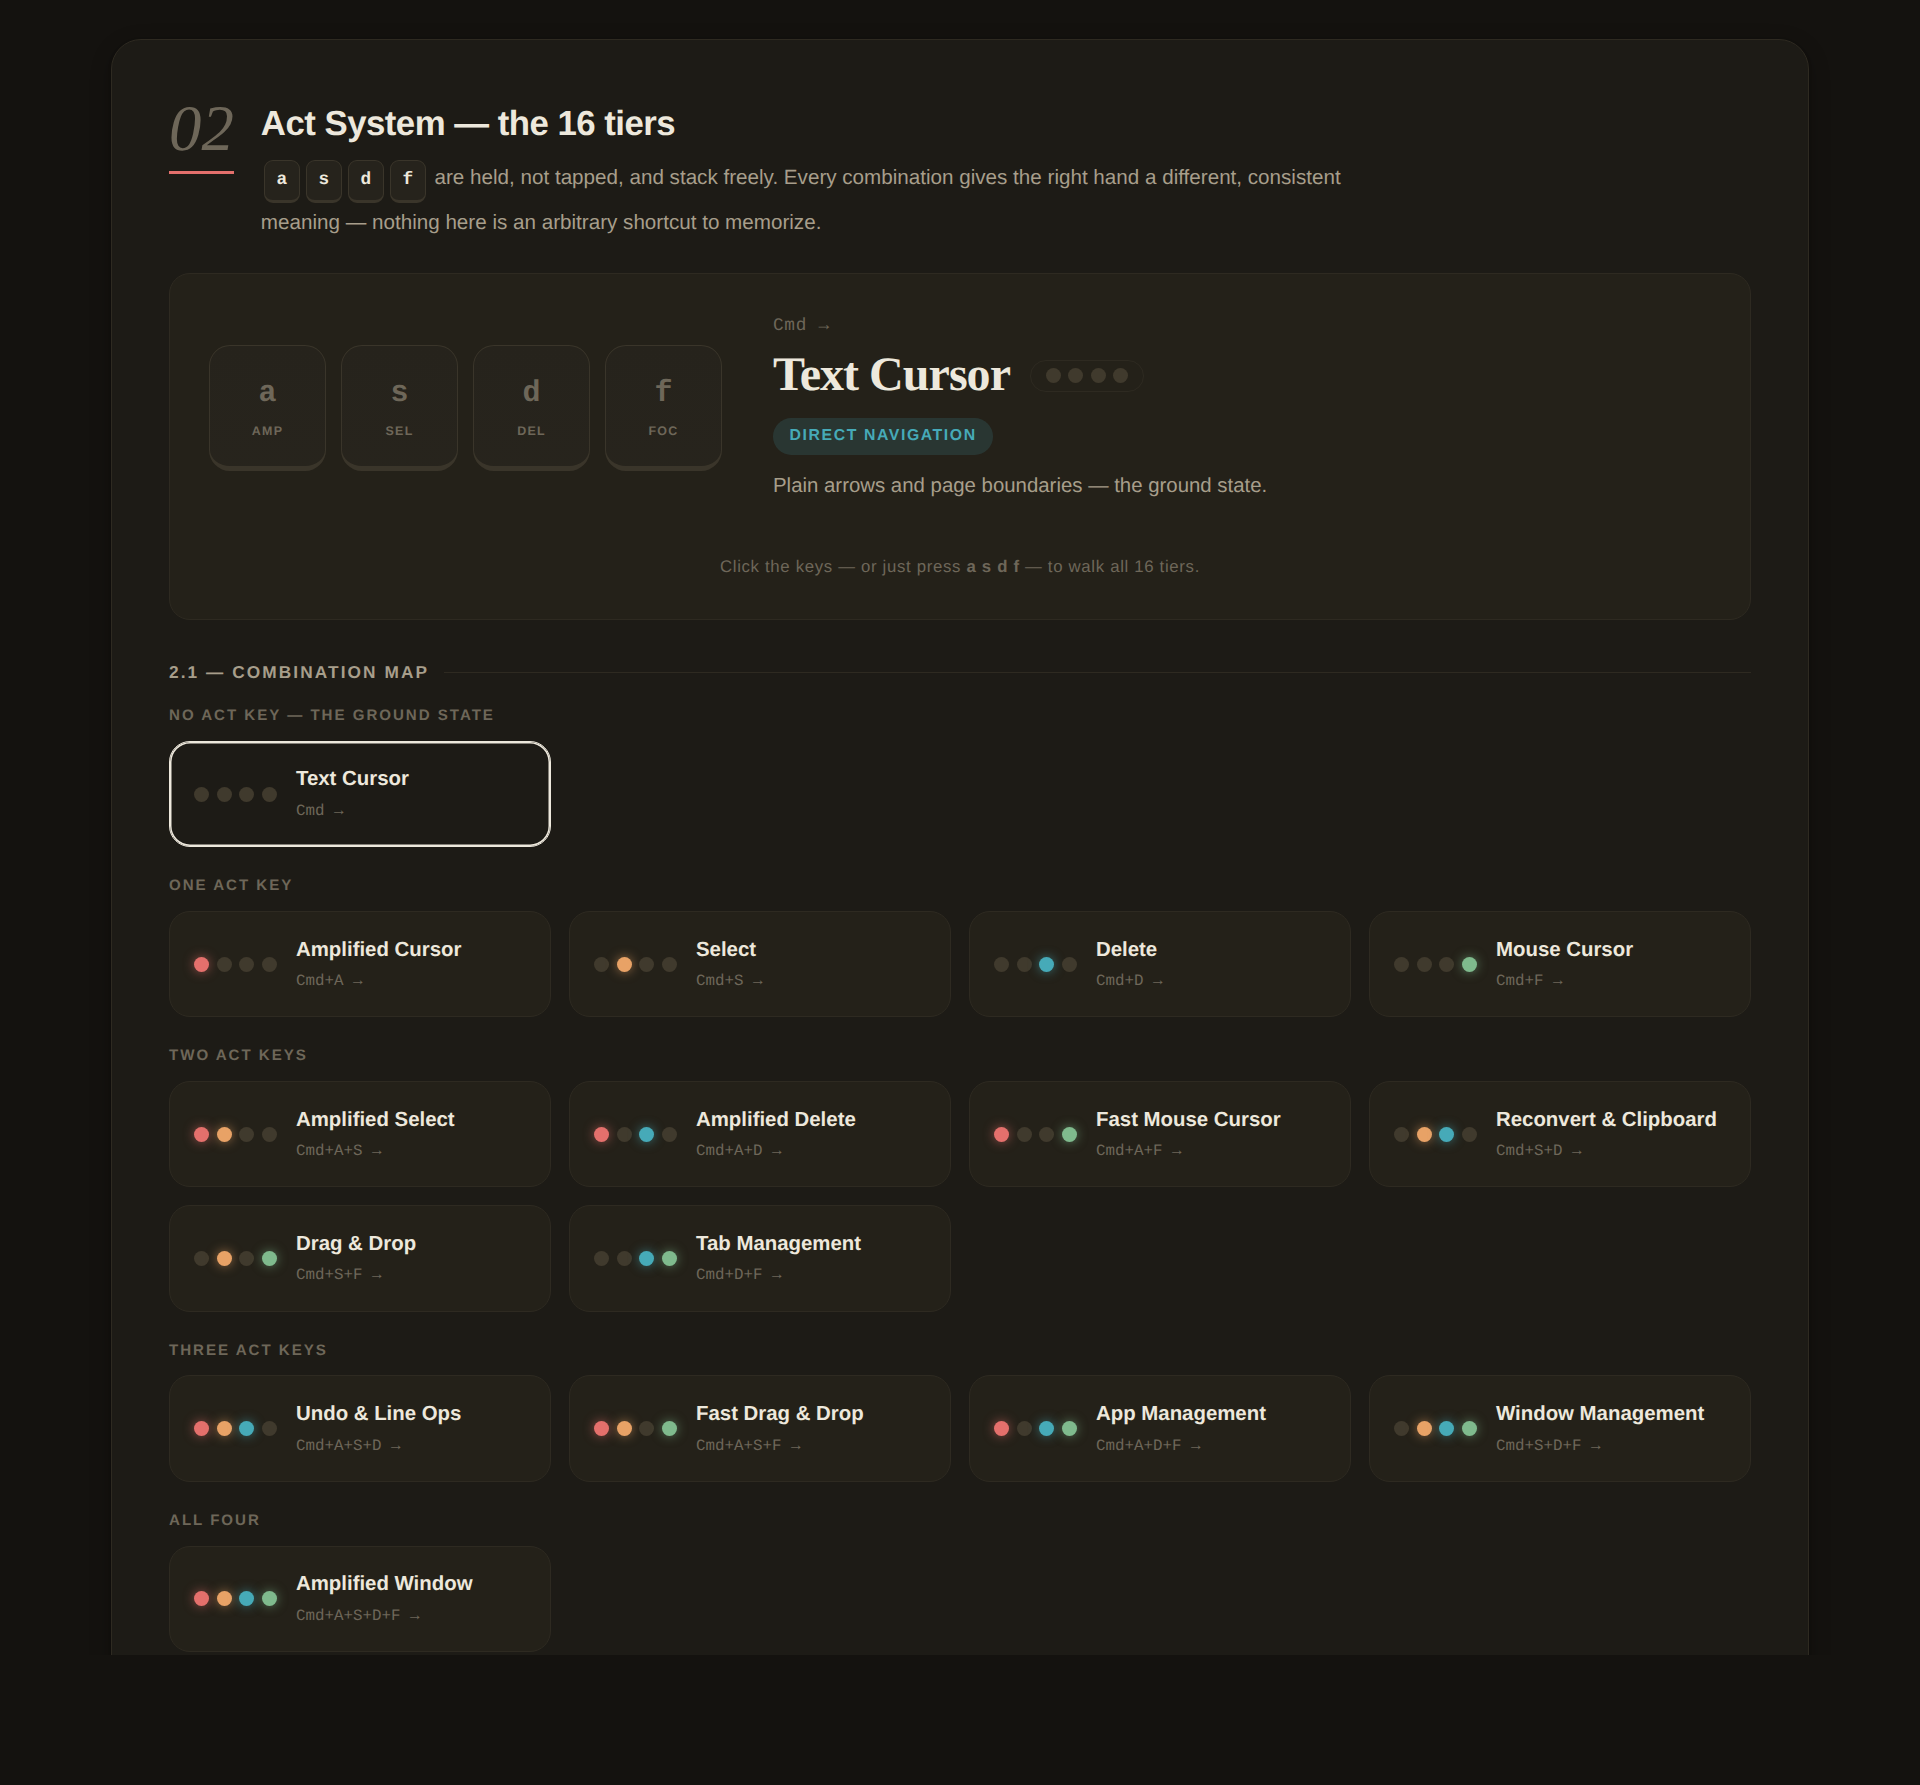
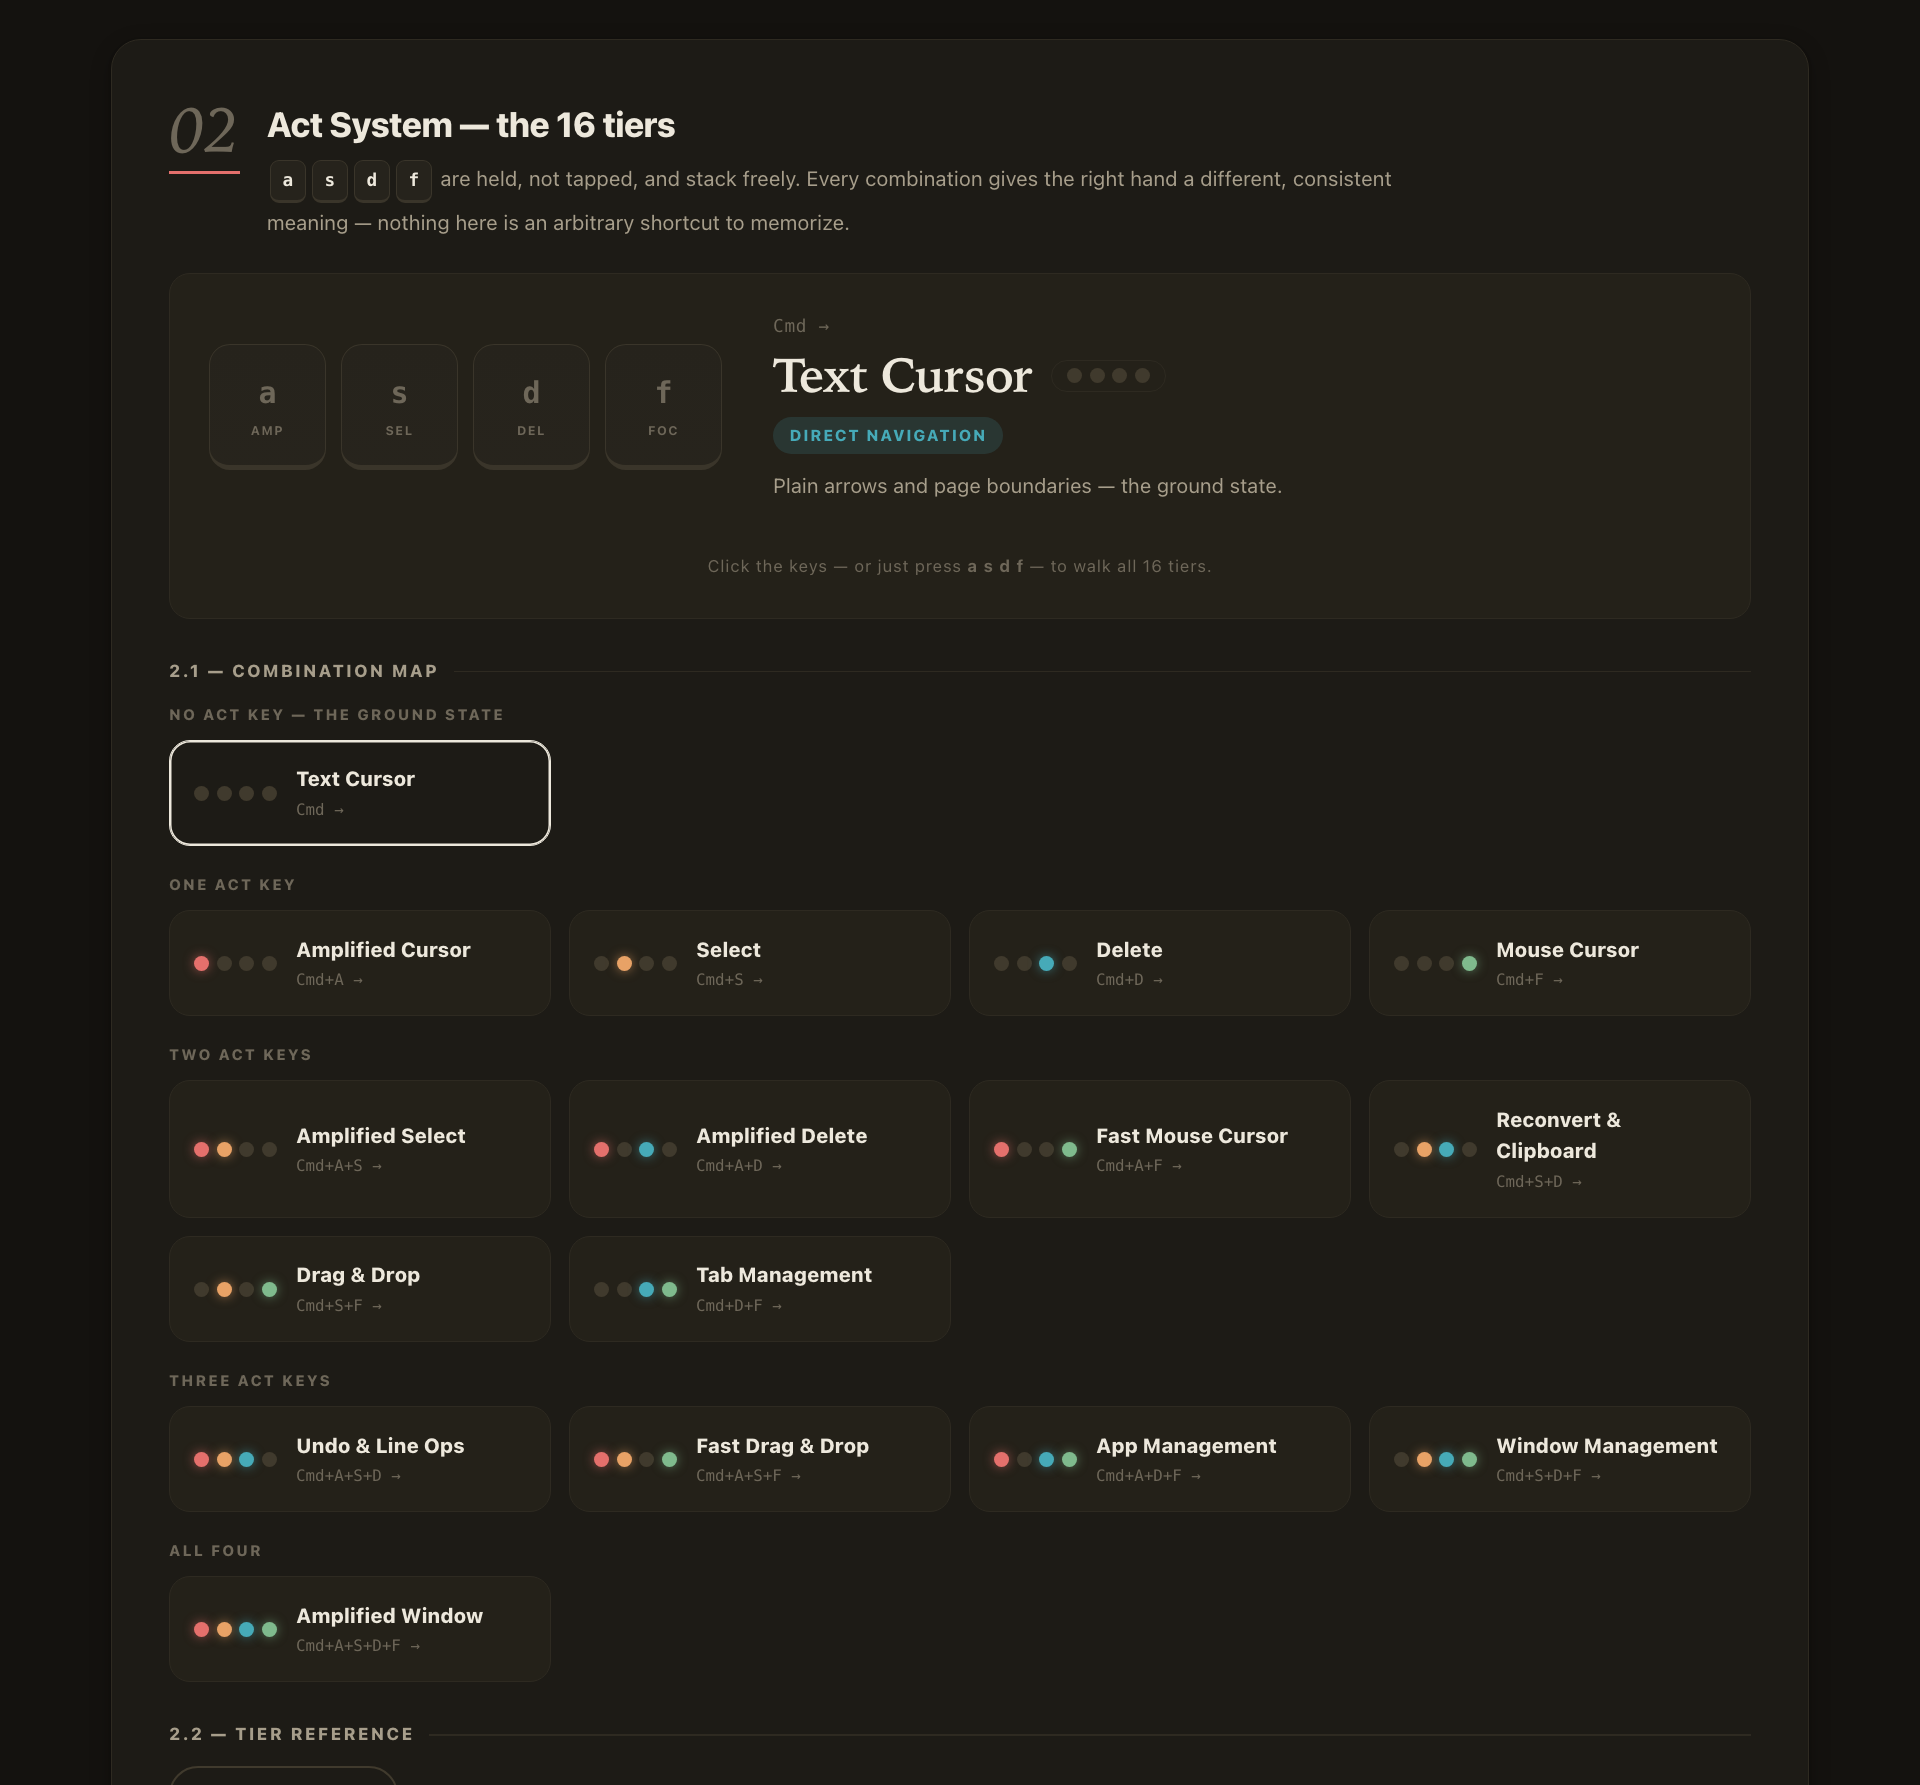
revert: put Command back on Caps Lock and Control back on fn
Restores the modifier arrangement that predates 6c8b3f4. Caps Lock's
held-output goes back to Left Command, fn goes back to Left Control, and
the explicit Left Control remap is dropped so the physical key passes
through as an ordinary Control. Caps Lock's tap-alone (Escape) and its
Asterisk-layer Maccy-trigger role are untouched.

NOTES.md records that the swap was tried and rolled back, so it is not
re-applied by mistake.

Also pin the README screenshots to the dark theme. The page's own theme
script overrides data-theme on load from localStorage, falling back to
the OS prefers-color-scheme, so rewriting the attribute was not enough
and the hero shot came out in whichever theme the capturing machine
happened to prefer. The capture now stubs that localStorage read, making
both shots dark and identical on any machine.

diff --git a/docs/index.html b/docs/index.html
@@ -717,7 +717,7 @@ body.searching .chapter-nav{ margin-top:0; }
             <span class="keycap mod k-trigger" style="--sp:9">shift</span><span class="keycap k-mapped">z</span><span class="keycap k-mapped">x</span><span class="keycap k-mapped">c</span><span class="keycap k-mapped">v</span><span class="keycap k-mapped">b</span><span class="keycap k-mapped">n</span><span class="keycap k-mapped">m</span><span class="keycap k-mapped">,</span><span class="keycap k-mapped">.</span><span class="keycap k-mapped">/</span><span class="keycap mod k-trigger" style="--sp:9">shift</span>
           </div>
           <div class="kb-row" aria-hidden="true">
-            <span class="keycap mod k-mapped">fn</span><span class="keycap mod k-mapped">ctrl</span><span class="keycap mod k-mapped">opt</span><span class="keycap mod k-trigger" style="--sp:5">⌘</span><span class="keycap mod k-mapped" style="--sp:20">space</span><span class="keycap mod k-mapped" style="--sp:5">⌘</span><span class="keycap mod">opt</span><span class="keycap mod">◄</span><span class="kb-arrows"><span class="keycap-half">▲</span><span class="keycap-half">▼</span></span><span class="keycap mod">►</span>
+            <span class="keycap mod k-mapped">fn</span><span class="keycap mod">ctrl</span><span class="keycap mod k-mapped">opt</span><span class="keycap mod k-trigger" style="--sp:5">⌘</span><span class="keycap mod k-mapped" style="--sp:20">space</span><span class="keycap mod k-mapped" style="--sp:5">⌘</span><span class="keycap mod">opt</span><span class="keycap mod">◄</span><span class="kb-arrows"><span class="keycap-half">▲</span><span class="keycap-half">▼</span></span><span class="keycap mod">►</span>
           </div>
         </div>
       </div>
@@ -856,20 +856,20 @@ body.searching .chapter-nav{ margin-top:0; }
           <tr><td><span class="key">L-⌘</span></td><td><strong>Asterisk layer</strong></td><td class="dim">Switch to English input (US Extended)</td></tr>
           <tr><td><span class="key">L-⇧</span></td><td><strong>Bra layer</strong></td><td class="dim"><code>`</code> — with R-⇧ held: <code>~</code></td></tr>
           <tr><td><span class="key">R-⇧</span></td><td><strong>Cket layer</strong></td><td class="dim"><code>\</code> — with L-⇧ held: <code>|</code></td></tr>
-          <tr><td><span class="key">Caps Lock</span></td><td>⌃ &nbsp;<span class="dim">(inside Asterisk it is a system-action key, §06)</span></td><td class="dim">Esc &nbsp;<span class="dim">(inside Asterisk, physical Escape is a separate system-action key, §07)</span></td></tr>
+          <tr><td><span class="key">Caps Lock</span></td><td>⌘ &nbsp;<span class="dim">(inside Asterisk it is a system-action key, §06)</span></td><td class="dim">Esc &nbsp;<span class="dim">(inside Asterisk, physical Escape is a separate system-action key, §07)</span></td></tr>
           <tr><td><span class="key">Space</span></td><td>⇧ &nbsp;<span class="dim">(the only modifier either thumb can reach)</span></td><td class="dim">Space</td></tr>
           <tr><td><span class="key">R-⌘</span></td><td>⌘</td><td class="dim">Japanese <code>かな</code> key code — toggles the IME's kana / alphanumeric mode, not an input-source switch</td></tr>
           <tr><td><span class="key">L-⌥</span></td><td>⌥</td><td class="dim">Switch to Greek input</td></tr>
-          <tr><td><span class="key">fn</span></td><td>⌘ &nbsp;<span class="dim">(plain remap, not a hold action)</span></td><td class="dim">—</td></tr>
-          <tr><td><span class="key">L-⌃</span></td><td>⌘ &nbsp;<span class="dim">(plain remap, not a hold action)</span></td><td class="dim">—</td></tr>
+          <tr><td><span class="key">fn</span></td><td>⌃ &nbsp;<span class="dim">(plain remap, not a hold action)</span></td><td class="dim">—</td></tr>
         </tbody>
       </table>
     </div>
     <p class="sec-desc" style="margin-top:12px">
       Every modifier that a trigger key took over reappears somewhere else: <strong>⌘</strong> on
-      <span class="key">fn</span>, physical <span class="key">L-⌃</span> and <span class="key">R-⌘</span>
+      <span class="key">Caps Lock</span> and <span class="key">R-⌘</span>
       (L-⌘ is the Asterisk trigger), <strong>⇧</strong> on <span class="key">Space</span>
-      (both Shifts are layer triggers), <strong>⌃</strong> on <span class="key">Caps Lock</span>.
+      (both Shifts are layer triggers), <strong>⌃</strong> on <span class="key">fn</span>
+      and physical <span class="key">L-⌃</span>.
       Both <span class="key">⌥</span> keys stay ordinary.
     </p>
 
@@ -1253,7 +1253,7 @@ body.searching .chapter-nav{ margin-top:0; }
         <h2>Caps Lock — System Actions</h2>
         <p class="sec-desc">
           Inside Asterisk, Caps Lock is a system-action key. Outside it, Caps Lock is just
-          <strong>⌃ on hold, Esc on tap</strong>.
+          <strong>⌘ on hold, Esc on tap</strong>.
         </p>
       </div>
     </div>

diff --git a/scripts/shoot-readme-images.py b/scripts/shoot-readme-images.py
@@ -18,6 +18,11 @@ Two things are patched into a throwaway copy of the page before capture:
     at the top of the viewport — headless Chrome only captures the viewport,
     and `#act` in the URL doesn't reliably scroll it.
 
+  * The page's own theme script overrides `data-theme` on load from
+    localStorage, falling back to the OS `prefers-color-scheme`. Rewriting the
+    attribute is therefore not enough: the theme is pinned by stubbing the
+    localStorage read the page makes, so the shot is identical on any machine.
+
 Heights are hand-tuned to end on a clean boundary (the end of a card, not the
 middle of one). Re-check them after a layout change.
 """
@@ -52,6 +57,18 @@ NO_ANIMATION = """
 </style>
 """
 
+FORCE_THEME = """
+<script>
+(function () {
+  var theme = '%s';
+  var real = Storage.prototype.getItem;
+  Storage.prototype.getItem = function (key) {
+    return key === 'abcact-theme' ? theme : real.call(this, key);
+  };
+})();
+</script>
+"""
+
 KEEP_ONLY = """
 <script>
 window.addEventListener('load', function () {
@@ -68,7 +85,7 @@ window.addEventListener('load', function () {
 
 # (output name, theme, section to isolate — None keeps the whole page top, height in CSS px)
 SHOTS = [
-    ("manual-hero.png", "light", None, 1140),
+    ("manual-hero.png", "dark", None, 1140),
     ("act-tiers.png", "dark", "act", 1190),
 ]
 
@@ -87,7 +104,7 @@ def main():
 
     with tempfile.TemporaryDirectory() as tmp:
         for name, theme, section, height in SHOTS:
-            head = NO_ANIMATION + (KEEP_ONLY % section if section else "")
+            head = NO_ANIMATION + (FORCE_THEME % theme) + (KEEP_ONLY % section if section else "")
             html = source.replace('data-theme="light"', 'data-theme="%s"' % theme)
             html = html.replace("</head>", head + "</head>", 1)
 

diff --git a/MANUAL.md b/MANUAL.md
@@ -32,13 +32,11 @@
 
 | キー操作 | 動作 |
 |---|---|
-| Caps Lockを押しっぱなし | **Ctrlキーとして機能する**(Asteriskレイヤー内を除く) |
+| Caps Lockを押しっぱなし | **Commandキーとして機能する**(Asteriskレイヤー内を除く) |
 | Caps Lockを単体でタップ(離すまで他のキーを押さない) | Escキー |
 | 左Commandを単体でタップ | 英語入力ソースに切り替え(US Extended配列) |
 | 右Commandを単体でタップ | かなキー(`japanese_kana`)を送出 — 日本語入力のかな/英数モードを切り替え(入力ソースそのものの切り替えではありません) |
 | 右Commandを押しっぱなし | 通常のCommandキー |
-| fn | **Commandキーとして機能する** |
-| 左Ctrl | **Commandキーとして機能する** |
 | 左Optionを単体でタップ | ギリシャ語入力ソースに切り替え |
 | Spacebarを単体でタップ | 通常のスペース |
 | Spacebarを押しっぱなし | **Shiftとして機能する**(左右どちらの親指からも届く唯一の修飾キー) |
@@ -49,9 +47,8 @@
 
 補足: 左右のShiftキーはBra/Cketレイヤーの起動に使われているため、Shift本来の役割は
 Spacebarが担っています。同様にCommandは、左CommandがAsteriskの起動に使われて
-いるため、fn・左Ctrl・右Commandが担っています。Ctrl本来の役割は、Caps Lockの
-長押しが担っています。Optionは左右とも通常どおりです(左Optionは単体タップに
-ギリシャ文字入力の切替が乗っています)。
+いるため、Caps Lockと右Commandが担っています。Optionは左右とも通常どおりです
+(左Optionは単体タップにギリシャ文字入力の切替が乗っています)。
 
 ### アクセント記号(Asterisk・Cketどちらのレイヤーにも入っていない時)
 

diff --git a/NOTES.md b/NOTES.md
@@ -326,20 +326,17 @@ source switch — a `select_input_source`-based replacement was tried and
 abandoned after it turned out to be unreliable in practice. See "Japanese
 input: `select_input_source` was tried and abandoned" above for the full
 story. `left_control` no longer has an alone-action (Greek moved to
-`left_option` instead).
+`left_option` instead) and is a plain modifier.
 
-**Command duty moved off Caps Lock onto `fn`/Left Control; Caps Lock's
-hold-action became Ctrl instead.** `fn` originally sent Left Control
-(a plain remap, since `fn` wasn't used for anything else and physical
-Left Control was already a free, unmapped modifier — see above). Both
-were then swapped to send Left Command instead, and Caps Lock's own
-held-output (previously Left Command, tap-alone still `:escape`)
-became Left Control. Net effect: Command is now reachable from three
-places (`fn`, physical Left Control, `right_command` held) and Ctrl
-moved onto Caps Lock's long-press, matching the classic Unix
-Caps-as-Ctrl convention. The `[:!layer-ast]` guard on the Caps Lock
-manipulator is unchanged — inside Asterisk, Caps Lock is still the
-Maccy trigger, untouched by this swap.
+**`fn` sends Left Control.** Plain remap, no alone-action — `fn` isn't
+used for anything else in this config, and physical Left Control was
+already a free, unmapped modifier (see above), so there's no conflict
+between the two keys now both producing the same output.
+
+The opposite arrangement was tried once — `fn` and Left Control sending
+Left Command, with Caps Lock's hold becoming Left Control — and was
+rolled back. Command is wanted under the pinky, not under `fn`. Don't
+re-do the swap without asking first.
 
 **Maccy paste-by-index layer exists to keep thumb+pinky on Cmd+Tab.** The
 goal was pasting a specific clipboard history slot without ever letting go
